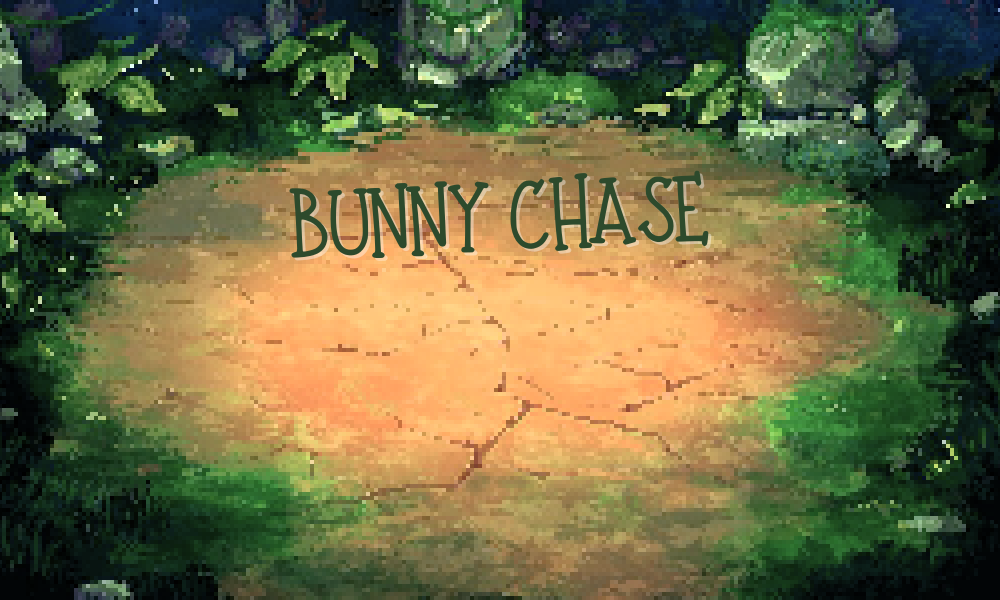
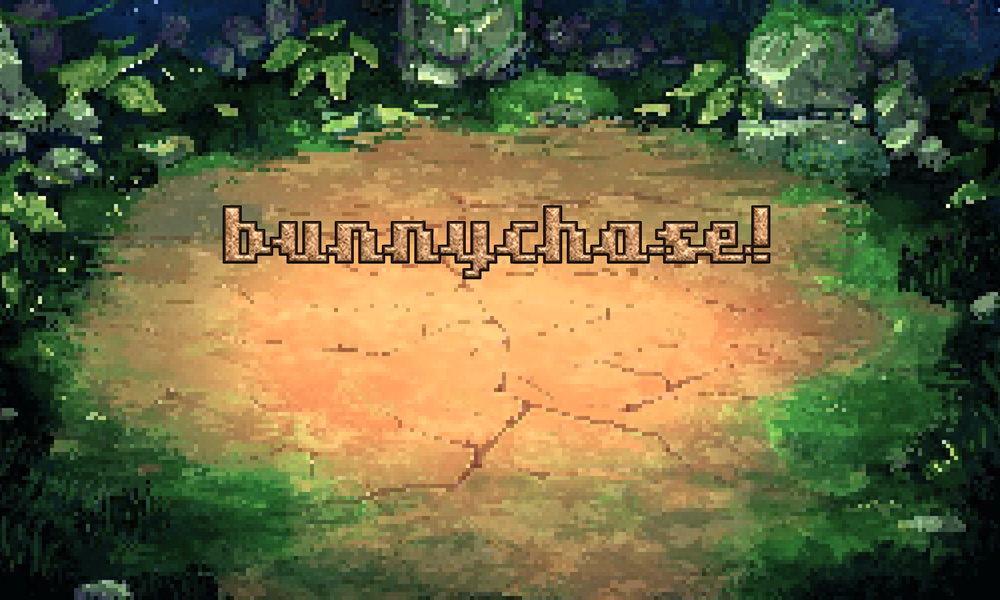
Fix score and update assets

Changed region(s): [[0.217, 0.27, 0.775, 0.48]]

diff --git a/client.py b/client.py
@@ -2,15 +2,8 @@ import pygame
 from network import Network
 from player import Player
 
-import pickle
-test_player = Player(100, 100)
-test_player.score = 50
-serialized = pickle.dumps(test_player)
-deserialized = pickle.loads(serialized)
-
-
 pygame.font.init()
-font = pygame.font.Font(None,26)
+font = pygame.font.Font('font1.TTF', 20)
 
 width = 1000
 height = 600
@@ -19,23 +12,28 @@ pygame.display.set_caption("Client")
 
 bg = pygame.image.load('bg.png')
 bg1 = pygame.image.load('bg1.png')
+fg1 = pygame.image.load('fg1.png')
+fg2 = pygame.image.load('fg2.png')
 
-# colors
+# Initialize colors.
 WHITE = (255, 255, 255)
 LIGHTGREEN = (86, 129, 69)
 GREEN = (45, 74, 44)
+BLACK = (38, 23, 13)
 
 def drawStartScreen():
     ''' This function draws the start screen with start and quit options. '''
-    win.blit(bg1,(0,0))
+    win.blit(bg1, (0,0))
 
-    pygame.draw.rect(win, LIGHTGREEN, (width // 2 - 60, height // 2, 120, 40))
-    start_text = font.render('Start', True, WHITE)
-    win.blit(start_text,(width // 2 - start_text.get_width() // 2, height // 2 + 10))
+    # Draw Start button.
+    win.blit(fg2, (width // 2 - 60, height // 2))
+    start_text = font.render('Start', True, BLACK)
+    win.blit(start_text, (width // 2 - start_text.get_width() // 2, height // 2 + 33))
 
-    pygame.draw.rect(win, GREEN, (width // 2 - 60, height // 2 + 60, 120, 40))
-    quit_text = font.render('Quit', True, WHITE)
-    win.blit(quit_text,(width // 2 - quit_text.get_width() // 2, height // 2 + 70))
+    # Draw Quit button.
+    win.blit(fg2, (width // 2 - 60, height // 2 + 85))
+    quit_text = font.render('Quit', True, BLACK)
+    win.blit(quit_text,(width // 2 - quit_text.get_width() // 2, height // 2 + 118))
 
     pygame.display.update()
 
@@ -43,15 +41,15 @@ def drawQuitScreen():
     ''' This function draws the quit screen with restart and quit options. '''
     win.blit(bg1, (0, 0))
 
-    # Draw Restart button
-    pygame.draw.rect(win, LIGHTGREEN, (width // 2 - 60, height // 2, 120, 40))
-    restart_text = font.render('Restart', True, WHITE)
-    win.blit(restart_text, (width // 2 - restart_text.get_width() // 2, height // 2 + 10))
+    # Draw Restart button.
+    win.blit(fg2, (width // 2 - 60, height // 2))
+    restart_text = font.render('Restart', True, BLACK)
+    win.blit(restart_text, (width // 2 - restart_text.get_width() // 2, height // 2 + 33))
 
-    # Draw Quit button
-    pygame.draw.rect(win, GREEN, (width // 2 - 60, height // 2 + 60, 120, 40))
-    quit_text = font.render('Quit', True, WHITE)
-    win.blit(quit_text, (width // 2 - quit_text.get_width() // 2, height // 2 + 70))
+    # Draw Quit button.
+    win.blit(fg2, (width // 2 - 60, height // 2 + 85))
+    quit_text = font.render('Quit', True, BLACK)
+    win.blit(quit_text, (width // 2 - quit_text.get_width() // 2, height // 2 + 118))
 
     pygame.display.update()
 
@@ -62,17 +60,17 @@ def reset_game():
     start_ticks = pygame.time.get_ticks()  # Reset the start time.
     game_over = False  # Reset the game over state.
 
-def redrawWindow(win, players, current_player, time_left):
+def redrawWindow(win, players, score, time_left):
     ''' This function redraws to update the window with all players. '''
     win.blit(bg, (0, 0))
     for player in players:
         player.draw(win) # Draw each player in the list.
-        
-    score_text = font.render(f'Score: {current_player.score}', True, (255, 255, 255))
-    win.blit(score_text, (10,10))
-    
-    timer_text = font.render(f'Time Left: {time_left}s', True, (255, 255, 255))
-    win.blit(timer_text, (10, 40))
+
+    win.blit(fg1, (20, 20))
+    score_text = font.render(f'Score: {score}', True, BLACK)
+    win.blit(score_text, (50, 53))
+    timer_text = font.render(f'Time Left: {time_left}s', True, BLACK)
+    win.blit(timer_text, (50, 73))
 
     pygame.display.update()
 
@@ -105,13 +103,13 @@ def main():
                 if event.type == pygame.MOUSEBUTTONDOWN:
                     x, y = pygame.mouse.get_pos()
 
-                    # Check if the Start button is clicked
-                    if width // 2 - 60 <= x <= width // 2 + 60 and height // 2 <= y <= height // 2 + 40:
-                        start_screen = False  # Exit start screen and start game
+                    # Check if the Start button is clicked.
+                    if width // 2 - 60 <= x <= width // 2 + 60 and height // 2 <= y <= height // 2 + 75:
+                        start_screen = False  # Exit start screen and start game.
 
-                    # Check if the Quit button is clicked
-                    elif width // 2 - 60 <= x <= width // 2 + 60 and height // 2 + 60 <= y <= height // 2 + 100:
-                        running = False  # Exit the game
+                    # Check if the Quit button is clicked.
+                    elif width // 2 - 60 <= x <= width // 2 + 60 and height // 2 + 85 <= y <= height // 2 + 160:
+                        running = False  # Exit the game.
         
         elif game_over:
             drawQuitScreen()  
@@ -124,15 +122,15 @@ def main():
                 if event.type == pygame.MOUSEBUTTONDOWN:
                     x, y = pygame.mouse.get_pos()
 
-                    # Check if Restart button is clicked
-                    if width // 2 - 60 <= x <= width // 2 + 60 and height // 2 <= y <= height // 2 + 40:
+                    # Check if Restart button is clicked.
+                    if width // 2 - 60 <= x <= width // 2 + 60 and height // 2 <= y <= height // 2 + 75:
                         reset_game()  
                         game_over = False  
-                        start_ticks = pygame.time.get_ticks()  # Reset the timer
+                        start_ticks = pygame.time.get_ticks()  # Reset the timer.
 
                     # Check if Quit button is clicked
-                    elif width // 2 - 60 <= x <= width // 2 + 60 and height // 2 + 60 <= y <= height // 2 + 100:
-                        running = False  # Quit the game
+                    elif width // 2 - 60 <= x <= width // 2 + 60 and height // 2 + 85 <= y <= height // 2 + 160:
+                        running = False  # Quit the game.
 
         else:
             # Calculate time left
@@ -149,7 +147,13 @@ def main():
                     running = False
                     pygame.quit()
 
+            # Update the local player's state based on the server data.
+            for server_player in players:
+                if server_player.id == p.id:  # Match player by ID.
+                    p = server_player  # Update the local player's state.
+                    break
+
             p.move()  # Update this player's position.
-            redrawWindow(win, players, p, time_left)  # Draw all players in the window.
+            redrawWindow(win, players, p.score, time_left)  # Draw all players in the window.
 
 main()

diff --git a/server.py b/server.py
@@ -5,14 +5,6 @@ from _thread import *
 from player import Player
 import sys
 from ip_address import get_local_ip
-import threading 
-
-test_player = Player(100, 100)
-test_player.score = 50
-serialized = pickle.dumps(test_player)
-deserialized = pickle.loads(serialized)
-
-last_score_update = time.time()
 
 server = get_local_ip()
 port = 7000
@@ -28,21 +20,9 @@ s.listen(8) # Limit the number of clients.
 print("Server started. It is waiting for a connection.")
 
 # Initialize starting position of players.
-players = [Player(150, 50), Player(250, 50), Player(350, 50), Player(450, 50), Player(550, 50), Player(650, 50), Player(750, 50), Player(850, 50)]
+players = [Player(150, 200), Player(250, 170), Player(350, 150), Player(450, 140), Player(550, 140), Player(650, 150), Player(750, 170), Player(850, 200)]
 players[0].it = True
 cooldown = 0
-lock = threading.Lock()
-
-def updateScores (players):
-    '''To Continously increase the score of the bunny with carrot'''
-    global last_score_update 
-    current_time = time.time()
-    
-    if current_time - last_score_update >= 1:
-        for player in players:
-            if player.it:
-                player.score += 1 
-        last_score_update = current_time
         
 def checkCollisions(players):
     ''' Handle collisions between players on the server side only. '''
@@ -61,7 +41,7 @@ def checkCollisions(players):
                     # Transfer "it" status
                     player1.it = False
                     player2.it = True
-                    player2.score += 10 #Add 10 spoints to those bunny/player who got the carrot
+                    player2.score += 10 # Add points to the player who got the carrot.
                     cooldown = current_time + 2  # Set 2-second cooldown
                     return players
     return players
@@ -77,15 +57,14 @@ def thread(conn, player):
         try: # Try to receive some data from client to ensure that connection is stable.
             data = pickle.loads(conn.recv(2048)) # Read player position.
             it = players[player].it
+            score = players[player].score
             players[player] = data # Update player position on server.
             players[player].it = it
+            players[player].score = score
             # If the data is not received properly, disconnect.
             if not data: 
                 print("Disconnected.")
                 break
-            
-            with lock:
-                updateScores(players)
 
             # Send the updated list of all player information to the client.
             reply = checkCollisions(players)

diff --git a/player.py b/player.py
@@ -1,10 +1,11 @@
 import pygame
-import time
+import uuid
+# import time
 
 width = 1000
 height = 600
 win = pygame.display.set_mode((width, height))
-pygame.display.set_caption("Bunny Chase")
+pygame.display.set_caption("bunnychase!")
 
 class Player():
 
@@ -15,6 +16,7 @@ class Player():
     carrot = pygame.image.load('sprites/tile096.png')
     
     def __init__(self, x, y):
+        self.id = str(uuid.uuid4())
         self.x = x
         self.y = y
         self.width = 32

diff --git a/network.py b/network.py
@@ -10,8 +10,7 @@ class Network:
         self.server = get_local_ip() # Initialize server.
         self.port = 7000 # Initialize port.
         self.addr = (self.server, self.port) # Bind the server and port to an address.
-        self.p = self.connect() # Initialize connection and player.
-        
+        self.p = self.connect() # Initialize connection and player.    
 
     def connect(self):
         ''' This method attempts to connect to the server. '''

diff --git a/ip_address.py b/ip_address.py
@@ -3,10 +3,10 @@ import socket
 def get_local_ip():
     try:
         s = socket.socket(socket.AF_INET,socket.SOCK_DGRAM)
-        s.connect(("8.8.8.8",80))
+        s.connect(("8.8.8.8", 80))
         ip_address = s.getsockname()[0]
         s.close()
         return ip_address
     except Exception as e:
-        print("Error retrieving local IP address:",e)
+        print("Error retrieving local IP address: ",e)
         return None
